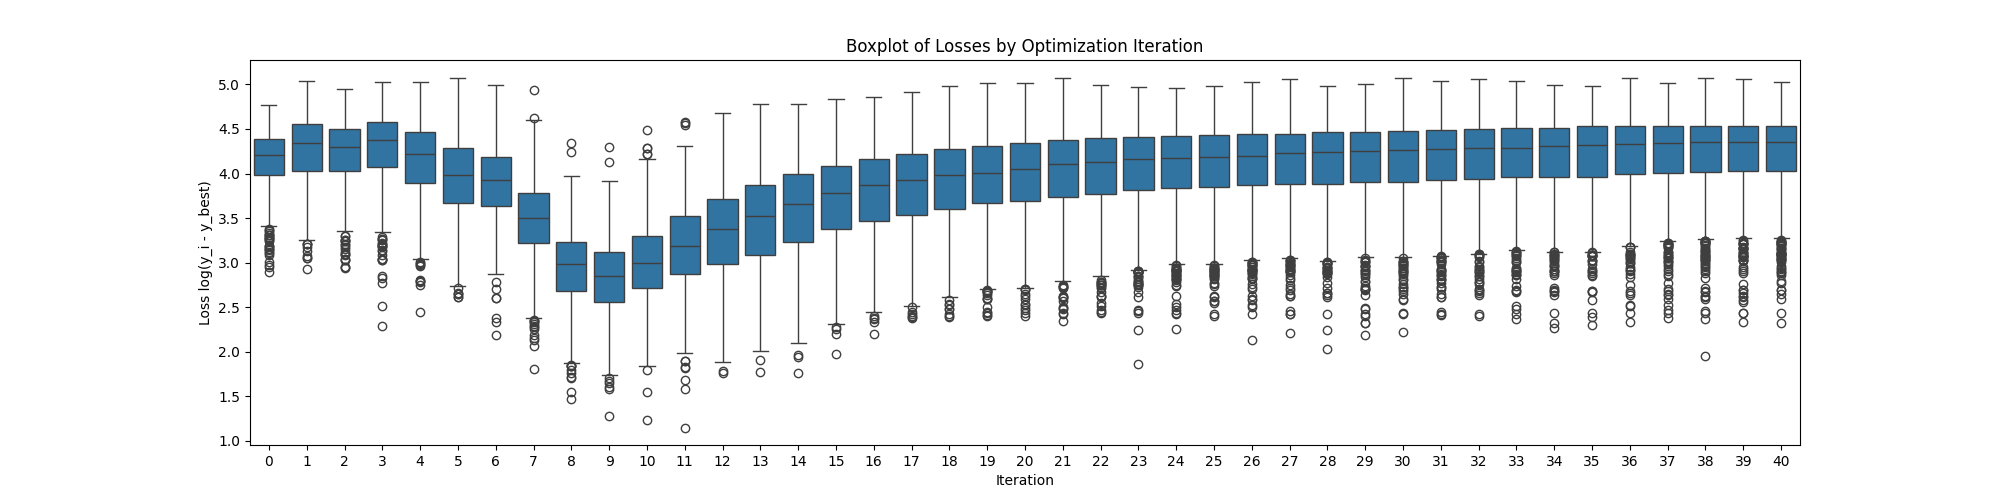
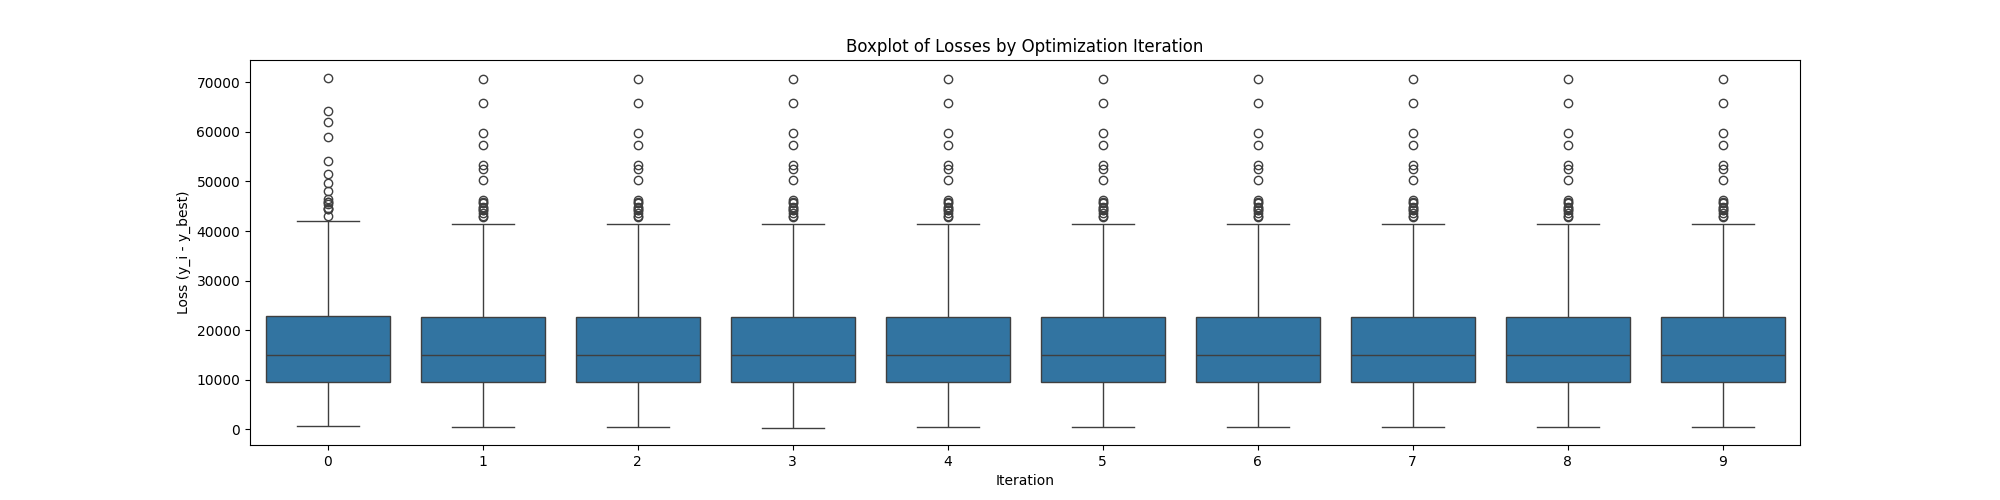
transformer test

diff --git a/main.py b/main.py
@@ -11,7 +11,7 @@ import wandb
 import random
 from transformer_model import CustomTransformer
 
-print("transformer test")
+print("transformer testing")
 
 device = torch.device("cuda" if torch.cuda.is_available() else "cpu")
 
@@ -193,11 +193,10 @@ with torch.no_grad():
         x_axis.append(0)
         y_axis.append((y - test_f_opt).mean().item())
 
-        hidden = model.init_hidden(test_batch_size, device)
-        c = None
+        input_seq = torch.unsqueeze(torch.cat((y, x), dim=-1), dim=-2)
 
         for iteration in range(1, opt_iterations + 1):
-            new_x, hidden, c = model(x, y, hidden, c)
+            new_x = model(input_seq)
             new_y = test_fn(new_x)
 
             x = new_x
@@ -206,6 +205,11 @@ with torch.no_grad():
             loss = (new_y - test_f_opt).mean()
             x_axis.append(iteration)
             y_axis.append(loss.item())
+
+            new_vector = torch.unsqueeze(torch.cat((new_y, new_x), dim=-1), dim=-2)
+            input_seq = torch.cat((input_seq, new_vector), dim=1)
+
+
 
 # боксплоты по итерациям
 

diff --git a/config.py b/config.py
@@ -1,9 +1,9 @@
 config = {
     "dimension": 4,
     "lr": 3e-4,
-    "batch": 1,
+    "batch": 1024,
     "hidden": 512,
     "epoch": 5000,
-    "num_batches": 3,
-    "patience": 250,
+    "num_batches": 10,
+    "patience": 500,
 }
